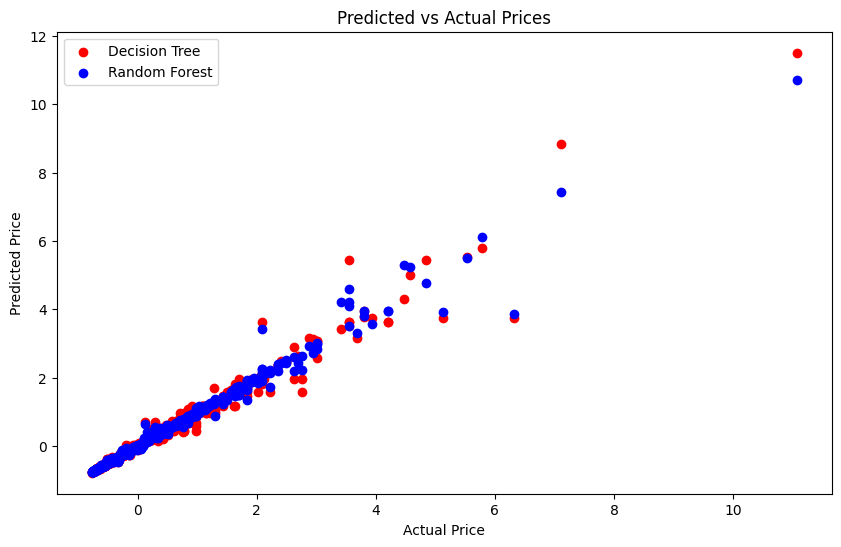
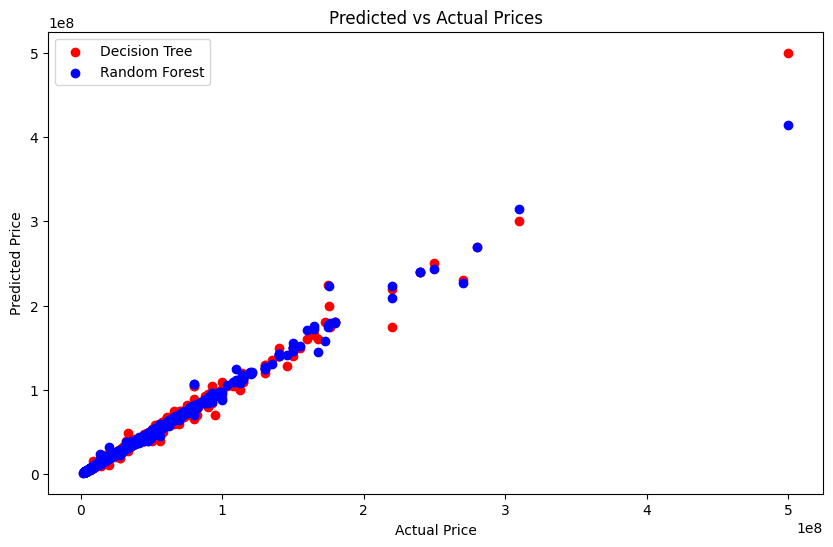
Q5/4 Done

diff --git a/A4/Q5/2.py b/A4/Q5/2.py
@@ -1,6 +1,5 @@
 import pandas as pd
 import numpy as np
-from sklearn.model_selection import train_test_split
 from sklearn.tree import DecisionTreeRegressor
 from sklearn.ensemble import RandomForestRegressor
 from sklearn.metrics import r2_score, mean_squared_error, mean_absolute_error
@@ -9,21 +8,24 @@ import os
 
 os.makedirs("Plots", exist_ok=True)
 
-# train_data = pd.read_csv('../dataset/train.csv')
-train_data = pd.read_csv('../processed_train_data.csv')
+train_data = pd.read_csv('../Q2/X_train_final_with_categories.csv')
+test_data = pd.read_csv('../Q2/X_test_final_with_categories.csv')
 
-X = train_data.drop(columns=['Price'])
-y = train_data['Price']
-X_train, X_test, y_train, y_test = train_test_split(X, y, test_size=0.2, random_state=42)
+X_train = train_data.drop(columns=['Price', 'Price_Category'])
+y_train = train_data['Price']
+
+X_test = test_data.drop(columns=['Price', 'Price_Category'])
+y_test = test_data['Price']
 
 # Training Decision Tree on processed data using the Best Hyperparameters found in 2b
-# Do not need to prune the tree as `ccp_alpha` = 0 is the best hyperparameter
+# `ccp_alpha` = 31941543.737055868 is the best hyperparameter
 dt = DecisionTreeRegressor(
     random_state=42,
-    max_depth=10,
+    max_depth=None,
     max_features=None,
-    min_samples_leaf=2,
-    min_samples_split=2
+    min_samples_leaf=1,
+    min_samples_split=2,
+    ccp_alpha=31941543.737055868
 )
 dt.fit(X_train, y_train)
 
@@ -42,13 +44,13 @@ rf_mse = mean_squared_error(y_test, rf_pred)
 dt_mae = mean_absolute_error(y_test, dt_pred)
 rf_mae = mean_absolute_error(y_test, rf_pred)
 
-print(f"Decision Tree R2 Score: {dt_r2}")
+print(f"\nDecision Tree R2 Score: {dt_r2}")
 print(f"Random Forest R2 Score: {rf_r2}")
 
-print(f"Decision Tree Mean Squared Error: {dt_mse}")
+print(f"\nDecision Tree Mean Squared Error: {dt_mse}")
 print(f"Random Forest Mean Squared Error: {rf_mse}")
 
-print(f"Decision Tree Mean Absolute Error: {dt_mae}")
+print(f"\nDecision Tree Mean Absolute Error: {dt_mae}")
 print(f"Random Forest Mean Absolute Error: {rf_mae}")
 
 plt.figure(figsize=(10, 6))
